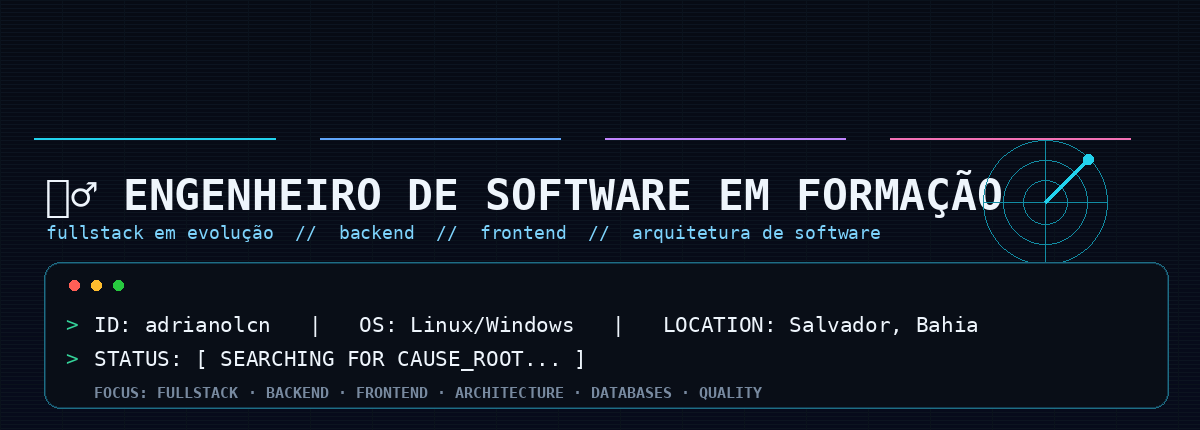
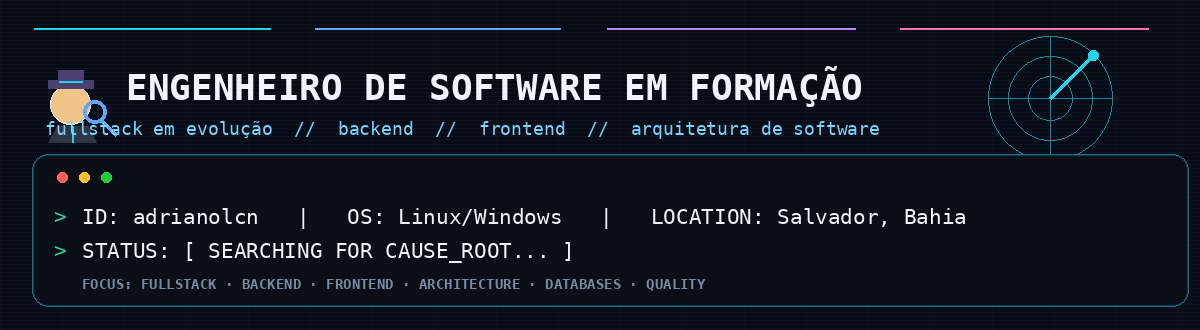
new readme.

diff --git a/README.md b/README.md
@@ -16,13 +16,6 @@ Sou graduando em **Engenharia de Software** pela **Universidade Católica do Sal
 
 Minha vivência com sistemas reais me ajuda a enxergar além do código: entender regra de negócio, investigar causa raiz, pensar em experiência do usuário e transformar problemas concretos em soluções mais simples, funcionais e bem estruturadas.
 
-```text
-ID: adrianolcn  |  OS: Linux/Windows  |  LOCATION: Salvador/BA
-----------------------------------------------------------------
-STATUS: [ SEARCHING FOR CAUSE_ROOT... ]
-FOCUS : [ FULLSTACK · BACKEND · FRONTEND · ARCHITECTURE · DATABASES · QUALITY ]
-```
-
 - Explorando novas tecnologias e desenvolvendo soluções de software.
 - Estudando fundamentos sólidos de Ciência da Computação e Engenharia de Software.
 - Evoluindo em backend, frontend, arquitetura de software, testes, banco de dados e qualidade.
@@ -68,7 +61,16 @@ FOCUS : [ FULLSTACK · BACKEND · FRONTEND · ARCHITECTURE · DATABASES · QUALI
 <div align="center">
 
 <img height="170em" src="https://github-readme-stats.vercel.app/api?username=adrianolcn&show_icons=true&hide_border=true&theme=transparent&bg_color=00000000&title_color=22D3EE&text_color=E6EDF3&icon_color=22D3EE" alt="GitHub stats de Adriano" />
-<img height="170em" src="https://github-readme-stats.vercel.app/api/top-langs/?username=adrianolcn&layout=compact&hide_border=true&theme=transparent&bg_color=00000000&title_color=22D3EE&text_color=E6EDF3" alt="Linguagens mais usadas" />
+
+</div>
+
+---
+
+## Linguagens mais usadas
+
+<div align="center">
+
+<img height="170em" src="https://github-readme-stats.vercel.app/api/top-langs/?username=adrianolcn&layout=compact&hide_border=true&theme=transparent&bg_color=00000000&title_color=22D3EE&text_color=E6EDF3&langs_count=8&card_width=440" alt="Linguagens mais usadas por Adriano" />
 
 </div>
 
